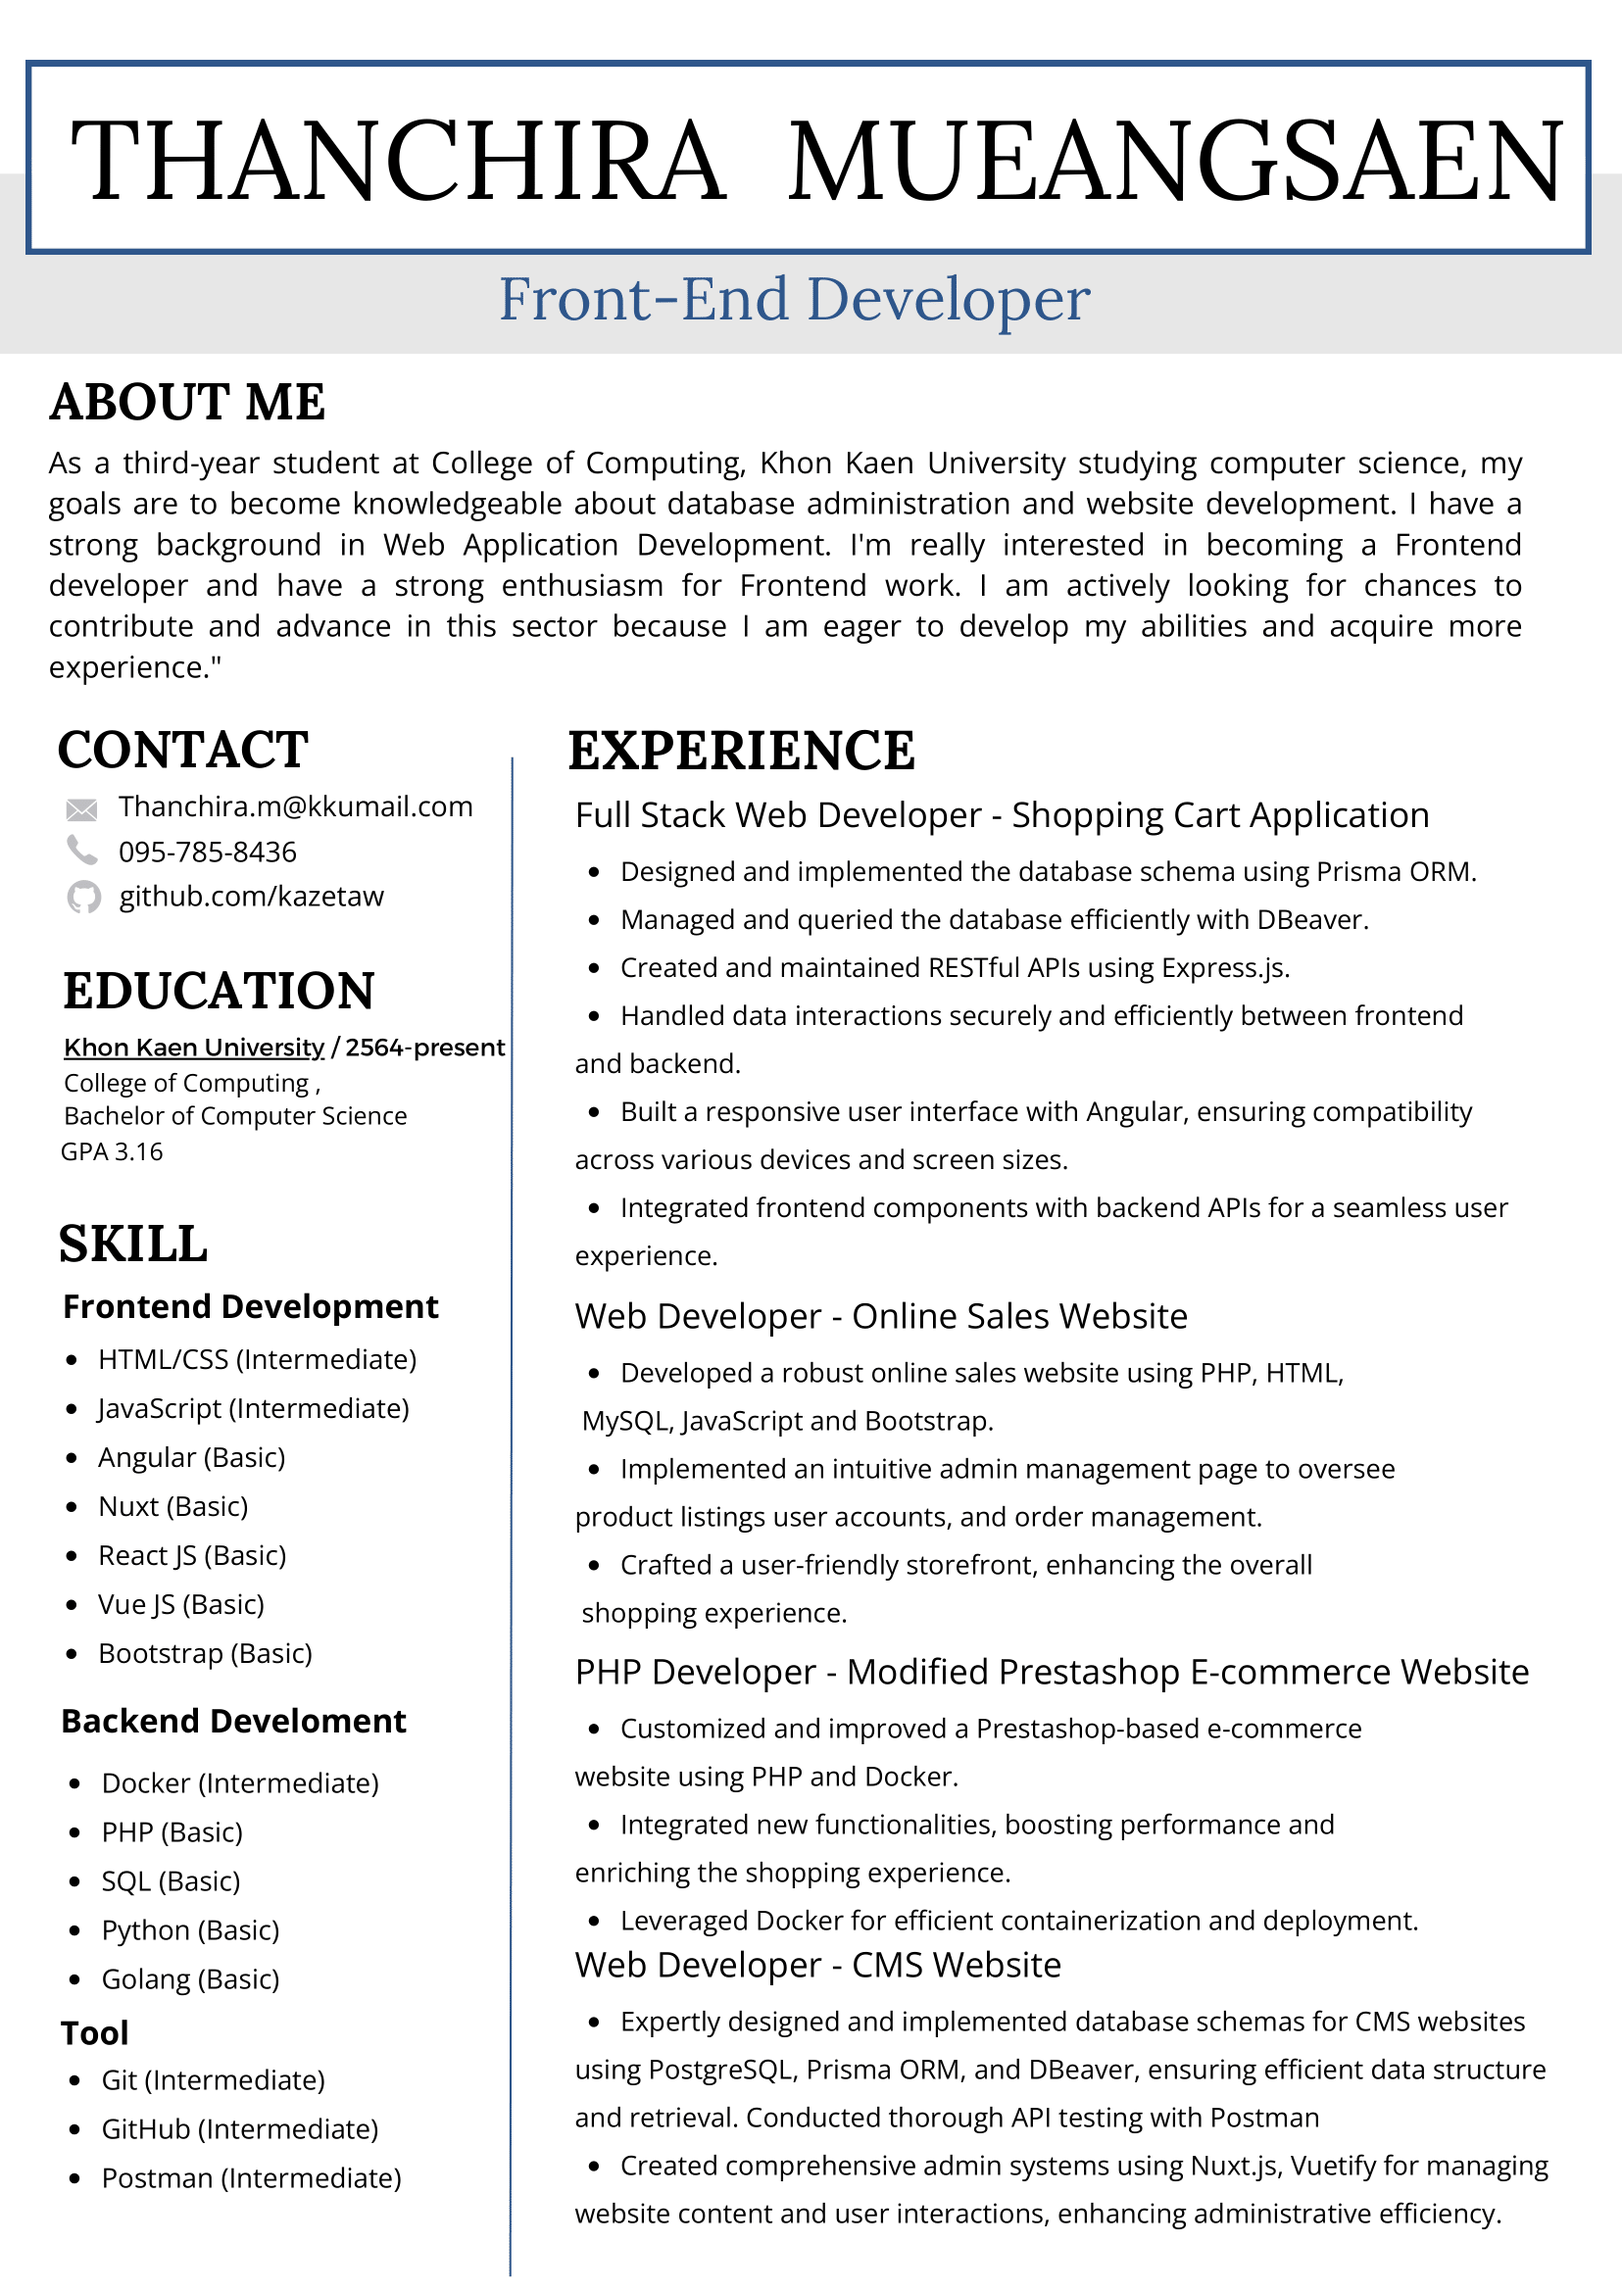
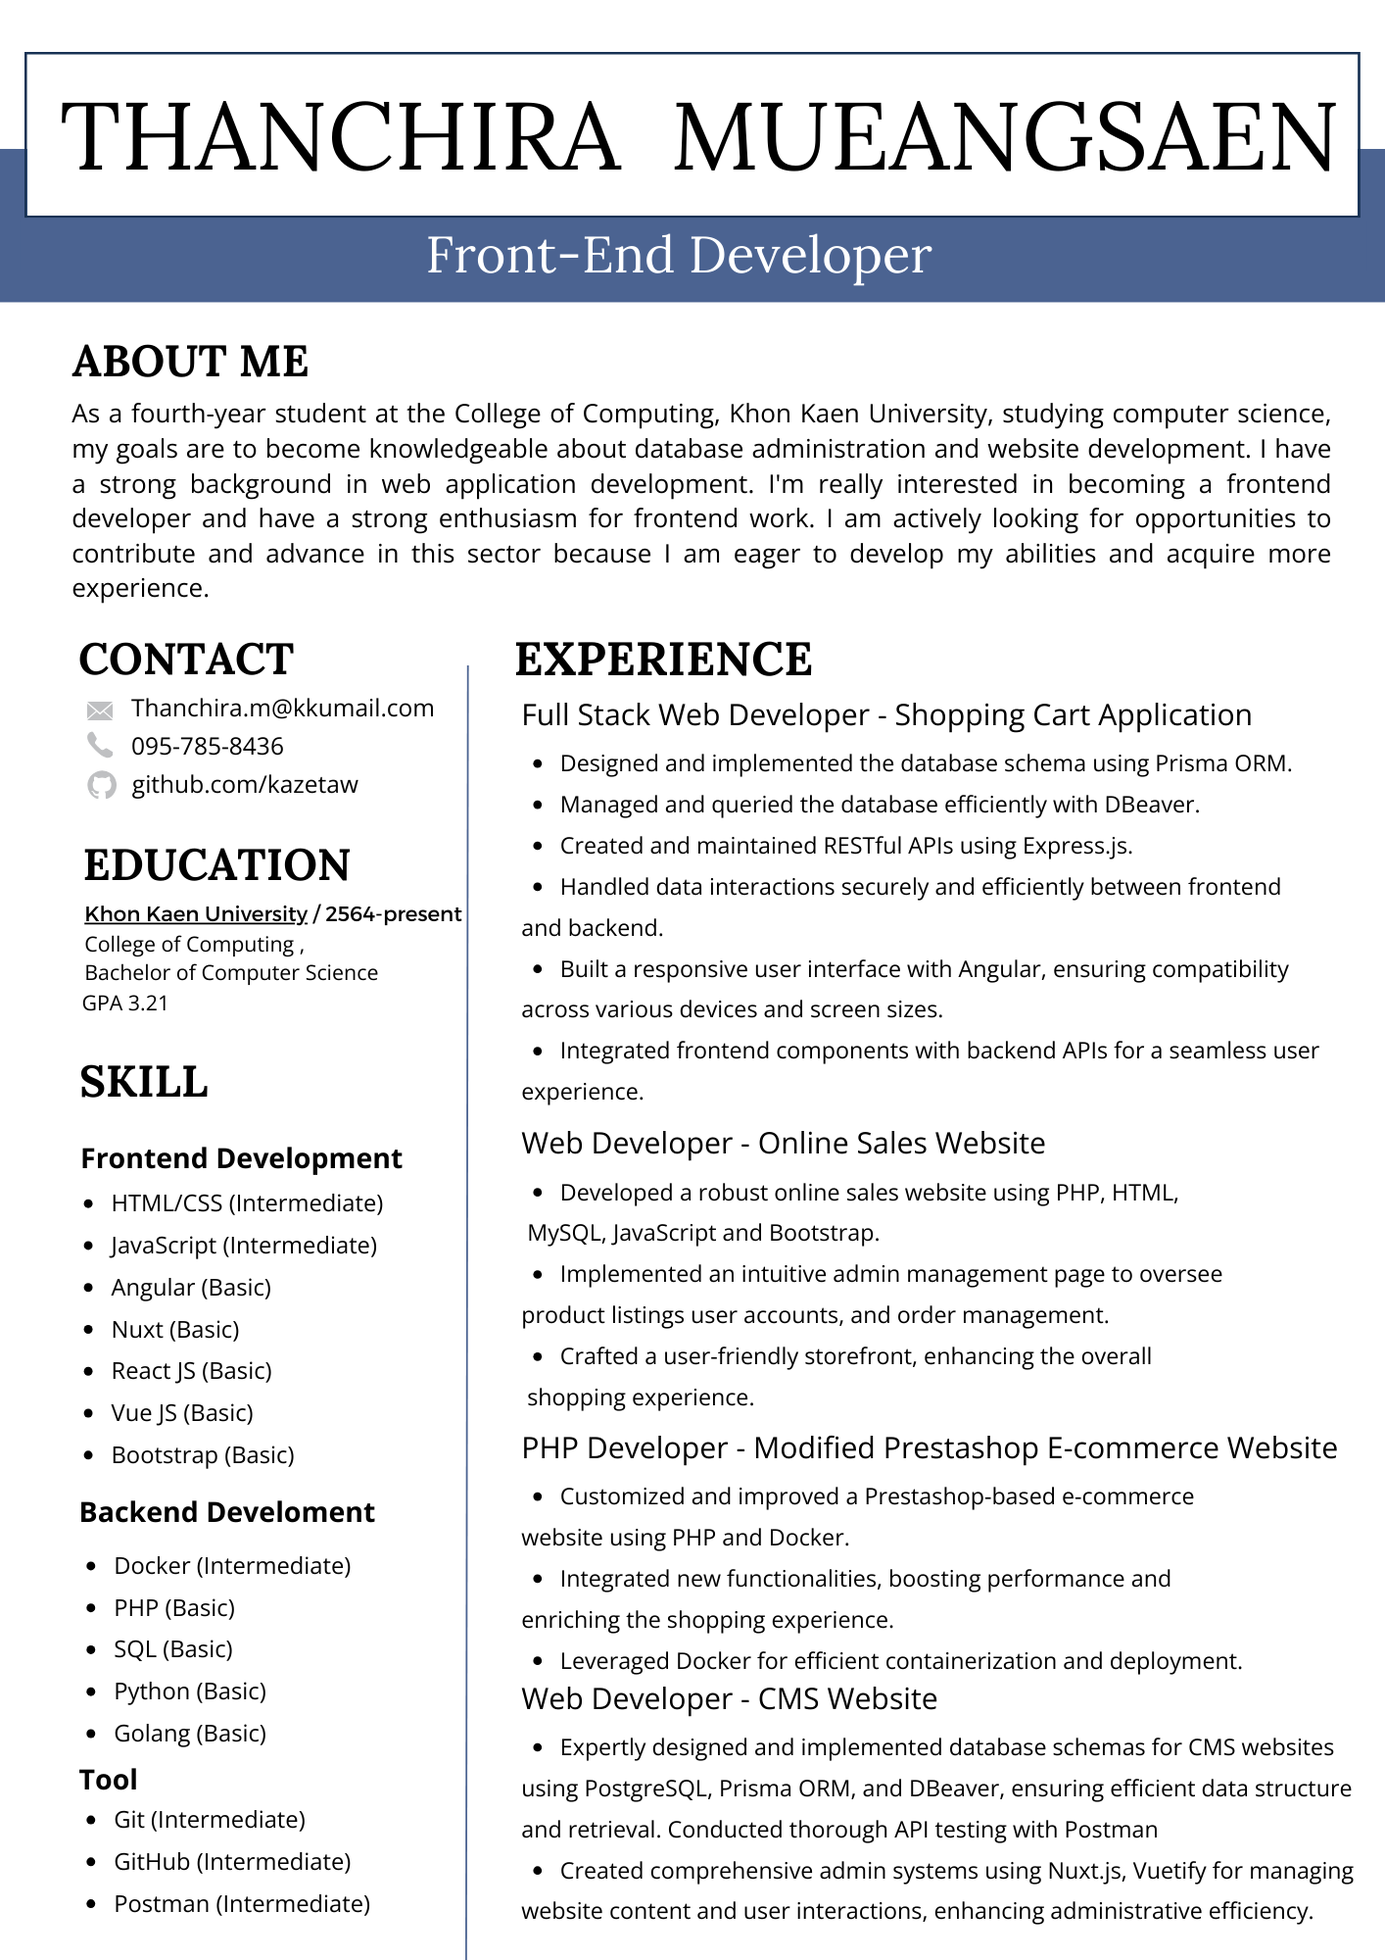
add more detail

Changed region(s): [[0.0, 0.031, 1.0, 0.992], [0.0311, 0.0, 0.9646, 0.031], [0.3112, 0.961, 0.3423, 0.992]]

diff --git a/index.html b/index.html
@@ -247,7 +247,7 @@
 										      		<div class="col-md-6">
 										      			<p>College of Computing ,
 															Bachelor of Computer Science
-															GPA 3.14 </p>
+															GPA 3.21 </p>
 										      		</div>
 										      		<div class="col-md-6">
 										      		</div>
@@ -367,6 +367,21 @@
 					               </div>
 					            </div>
 					         </article>
+					         <article class="timeline-entry animate-box" data-animate-effect="fadeInLeft">
+					            <div class="timeline-entry-inner">
+					               <div class="timeline-icon color-6">
+					                  <i class="icon-pen2"></i>
+					               </div>
+					               <div class="timeline-label">
+					               	<h2><a href="#">CMS-Website
+									</a></h2>
+					                  <p>Expertly designed and implemented database schemas for CMS websites 
+										using PostgreSQL, Prisma ORM, and DBeaver, ensuring efficient data structure and retrieval. Conducted thorough API testing with Postman 
+										Created comprehensive admin systems using Nuxt.js, Vuetify for managing 
+										website content and user interactions, enhancing administrative efficiency.</p>
+					               </div>
+					            </div>
+					         </article>
 
 					         <article class="timeline-entry begin animate-box" data-animate-effect="fadeInBottom">
 					            <div class="timeline-entry-inner">
@@ -435,6 +450,36 @@
 										<p class="icon">
 											<span><a href="https://github.com/kazetaw/VR_project"><i class="icon-share3"></i> github code</a></span>
 											<span><a href="https://kazetaw.github.io/VR_project/"><i class="icon-eye"></i> view website</a></span>
+											<!-- <span><a href="#"><i class="icon-heart"></i> 49</a></span>view website -->
+										</p>
+									</div>
+								</div>
+							</div>
+						</div>
+						<div class="col-md-6 animate-box" data-animate-effect="fadeInTop">
+							<div class="project" style="background-image: url(images/online.png);">
+								<div class="desc">
+									<div class="con">
+										<h3><a href="work.html">Online shopping</a></h3>
+										<span>VR</span>
+										<p class="icon">
+											<span><a href="https://github.com/kazetaw/VR_project"><i class="icon-share3"></i> github code</a></span>
+											<span><a href="https://kazetaw.github.io/VR_project/"><i class="icon-eye"></i> view website</a></span>
+											<!-- <span><a href="#"><i class="icon-heart"></i> 49</a></span>view website -->
+										</p>
+									</div>
+								</div>
+							</div>
+						</div>
+						<div class="col-md-6 animate-box" data-animate-effect="fadeInTop">
+							<div class="project" style="background-image: url(images/cms.png);">
+								<div class="desc">
+									<div class="con">
+										<h3><a href="work.html">CMS-WEBSITE</a></h3>
+										<span>VR</span>
+										<p class="icon">
+											<span><a href=""><i class="icon-share3"></i> github code</a></span>
+											<span><a href=""><i class="icon-eye"></i> view website</a></span>
 											<!-- <span><a href="#"><i class="icon-heart"></i> 49</a></span>view website -->
 										</p>
 									</div>
